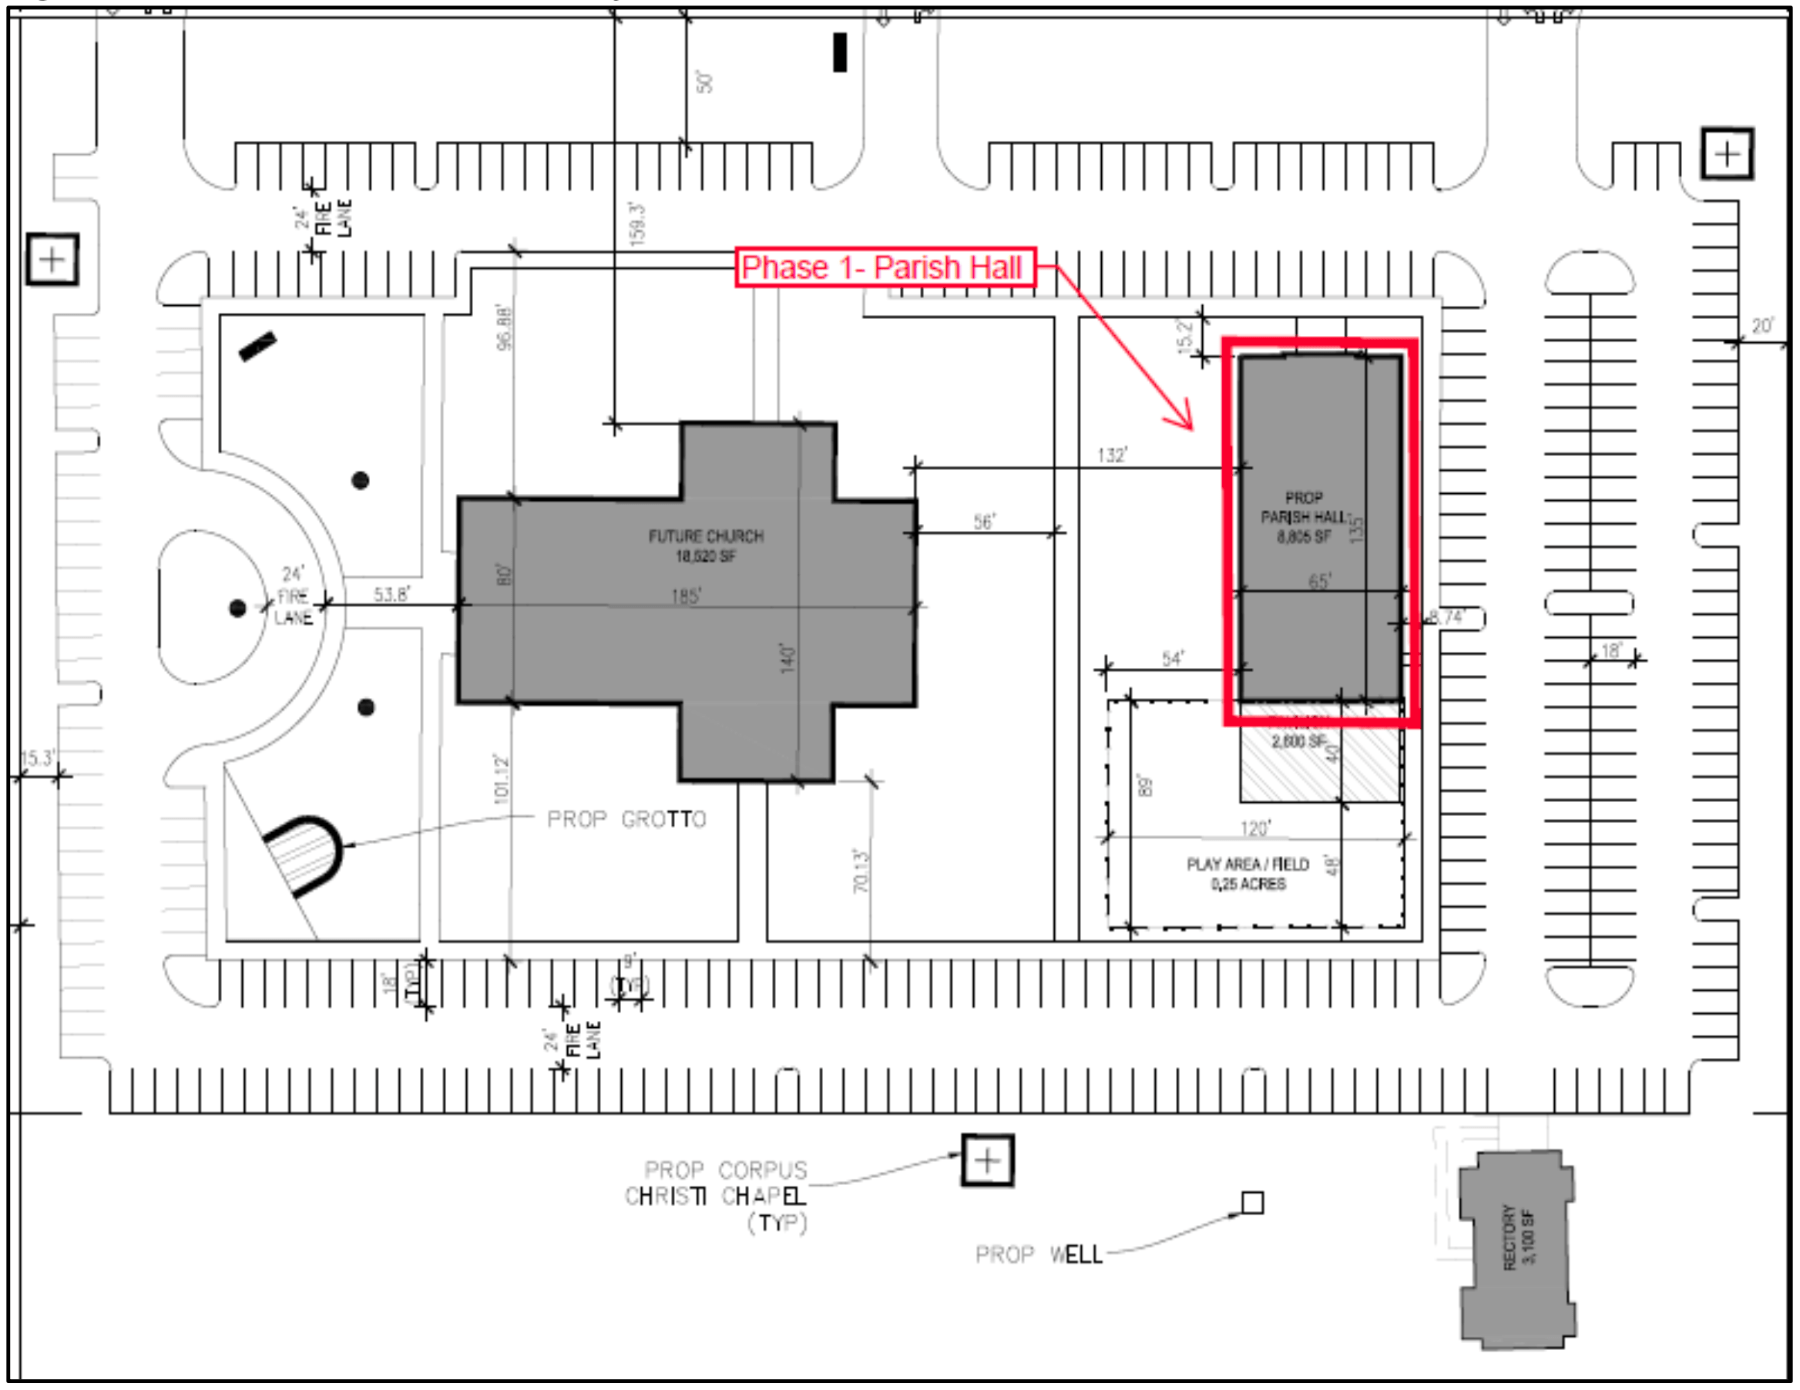
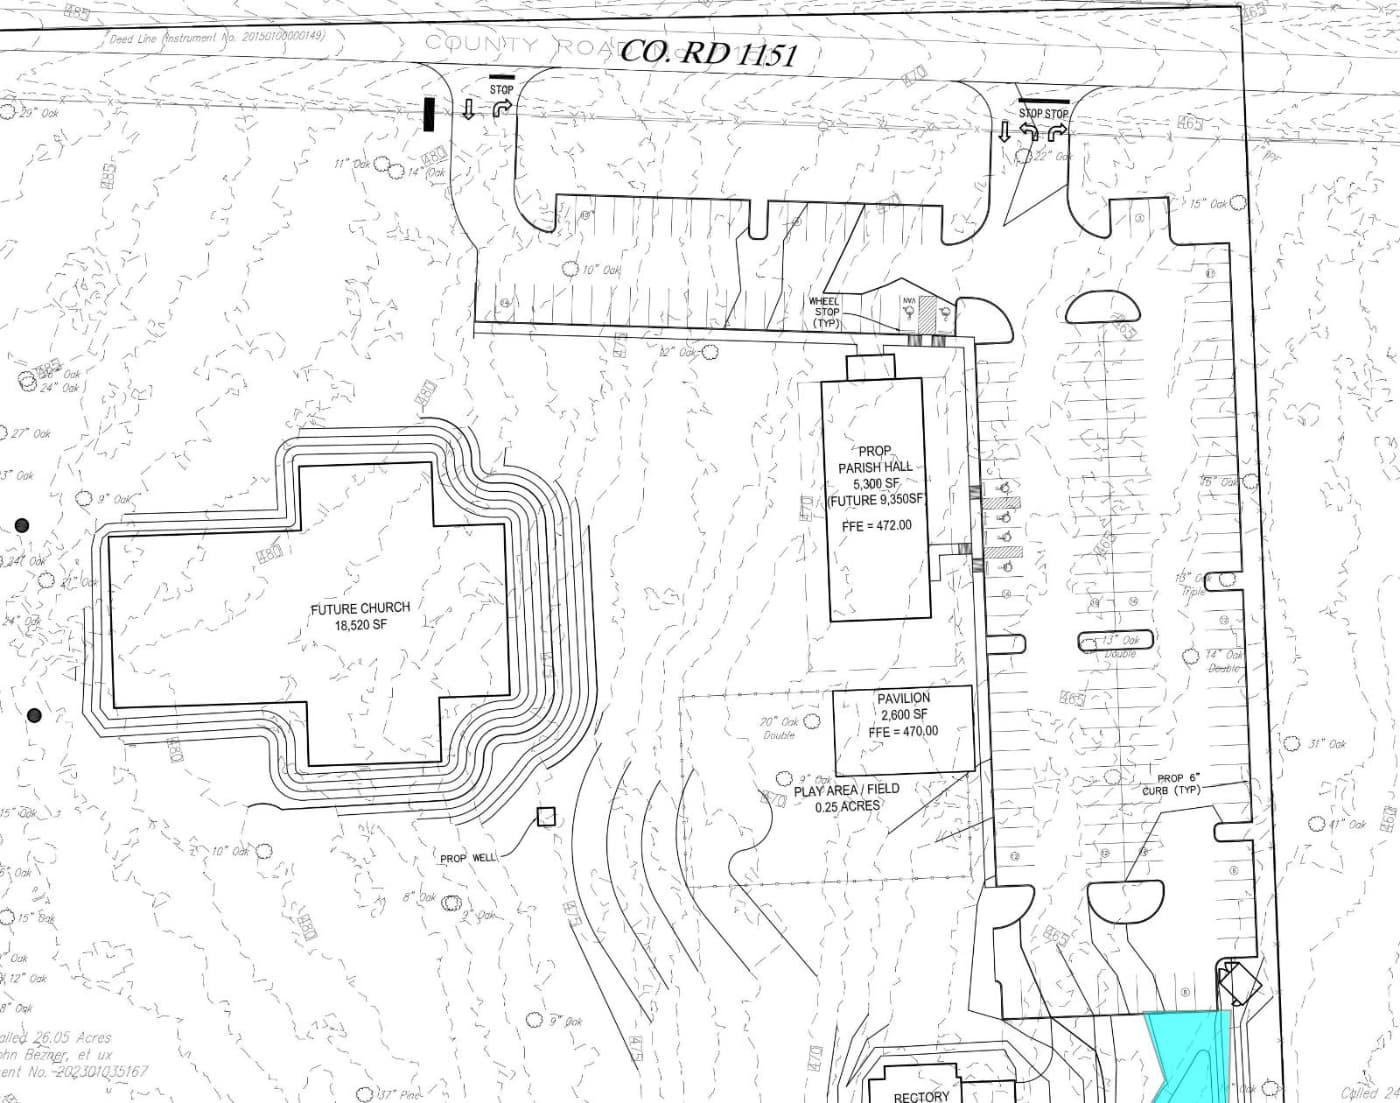
Update images and text for new site

Changed region(s): [[0.0, 0.0, 1.0, 1.0], [0.215, 0.9248, 0.2457, 0.9556], [0.215, 0.8323, 0.2457, 0.8631]]

diff --git a/index.html b/index.html
@@ -442,9 +442,12 @@
             <div class="offset-md-1 mb-5 mb-lg-0 col-md-10 col-lg-6 mt-5 mt-md-0">
               <h2>Future</h2>
               <h3>Within our means, without compromising.</h3>
-              <p>The aim of the building committee has been to design and develop a church that addresses our current
-                needs while remaining affordable within the means of our community without compromising on traditional
-                elements and beautiful design.
+              <p>The aim of the building committee has always been to assist Father Valentine in designing and
+                developing a church building that addresses our current needs, remains affordable within the means of
+                our community, and does not compromise on traditional elements and beautiful design.</p>
+
+              <p>Over the past year, our needs and our urgency have changed. We need more space, and we need it soon. To
+                that end, we are building a temporary church that will later be converted to a parish hall.</p>
             </div>
             <div class="offset-md-1 col-md-3 d-none d-lg-block">
               <div class="reveal picframe" data-reveal="300" style="top:-30px; left:-45px;"><img
@@ -463,8 +466,8 @@
             </div>
             <div class="offset-md-1 mb-5 mb-lg-0 col-md-10 col-lg-6">
               <h3>Land for the project has been secured.</h3>
-              <p>Twelve acres of land located off of highway 110 on the North side of Tyler has been generously donated.
-                It is in a safe rural neighborhood surrounded by the homes of Catholic families.</p>
+              <p>Twelve acres of land on the North side of Tyler has been generously donated. It is in a safe, quiet,
+                and rural neighborhood.</p>
             </div>
           </div>
           <div class="row justify-content-center mb-5 pb-5">
@@ -473,11 +476,14 @@
             </div>
             <div class="col-lg-4 mb-lg-0">
               <h3>Divided into two principle phases.</h3>
-              <p>The project has been divided into two phases to provide smaller benchmarks for
-                fundraising. This will allow for flexibility in the construction of the new campus with the ability to
-                adapt its scope to match funds raised. <strong>The more we raise, the more we can build.</strong></p>
+              <p>The project has been divided into two phases to provide smaller, achievable benchmarks for fundraising.
+                This will allow us to get onto the new property (and out of our current one) sooner.</p>
+              <p>The first phase is a building that will be used as our church temporarily to meet the needs of our
+                community and allow it to grow. The second phase is to build a larger, more inspiring, and more
+                beautiful church while converting the first building into a parish hall.</p>
+
             </div>
-            <div class="d-none d-lg-block col-lg-6" style="top:-45px; position:relative;">
+            <div class="d-none d-lg-block col-lg-6" style="position:relative;">
               <img src="img/future/schematic.jpg" class="img-fluid" alt="" />
             </div>
           </div>
@@ -487,32 +493,42 @@
               <img src="img/future/site-plan-proposed.png" class="img-fluid" alt="" style="margin-bottom: 60px;" />
               <h3><strong>Phase 1: Parish hall and temporary church.</strong></h3>
               <ul>
-                <li>8,800 sq ft </li>
-                <li>The Parish Hall will serve as the temporary church until the full church is built.</li>
-                <li>The temporary church in the parish hall will seat 400 people per mass. By comparison, our
-                  current church seats 100 people.</li>
+                <li>5,300 sq ft </li>
+                <li>This is be used as our church immediately to be later converted to a parish hall once the final
+                  church is built.</li>
+                <li>Seats ~400 people. For comparison using the same calculation, our current church seats ~100.</li>
               </ul>
             </div>
           </div>
 
+
           <div class="row justify-content-center">
             <div class="col-md-8">
-              <img src="img/future/floor-plan-v7.png" style="width:100%; margin-bottom: 60px;" />
-              <p>Estimated total cost the first phase (Parish Hall and temporary Church) is $3 Million. The current
-                priority and most pressing need is
-                to build a new church with more space, so Phase 1 is the primary goal.</p>
-              <p>The Diocese of Tyler and FSSP leadership are supportive of this plan to build our new church. This
-                outlined plan has been approved by the Bishop and the Diocesan building committee.</p>
-              <p>Now that final approval has been granted, fundraising can begin. We need to raise a minimum of 60% of
-                total building costs to break ground, with the remaining 40% loaned to us from the Diocese to be paid
-                back in no more than 5 years. This 40% must be covered with pledges from donors.</p>
+              <img src="img/future/floor-plan-v8.jpg" style="width:100%; margin-bottom: 60px;" />
+
+              <iframe src="https://memberdrive.org/st-joseph-the-worker-parish/capital-campaign/progress?embed=true"
+                width="100%" height="100px" frameborder="0" style="margin:0;"></iframe>
+
+              <p>The current priority and most pressing need is to build a new church with more space, so Phase 1 is the
+                primary goal. The estimated cost for the temporary church building in the first phase is expected to be
+                around $1.8 Million. We have met this goal, but we still need your help! This cost does not include
+                interior furnishings or a rectory for Father Valentine; both are necessary for our community.</p>
+
+              <p>The Diocese of Tyler and FSSP leadership are openly supportive of this plan to build our new church.
+                This outlined plan has been approved by the Diocesan building committee.</p>
+
+              <p>We will need to secure a loan from the Diocese to begin construction. To obtain this loan, we need to
+                have the total cost covered by cash and pledges.</p>
+
               <p>A pledge is a non-binding commitment made in good faith. We encourage everyone to consider making a
                 pledge to the campaign for a 3 year period. An abatement of the Diocesan assessment has been granted, so
-                the entirety of the pledge payments will be used for the building campaign.</p>
-              <p>Each family has different financial obligations to consider and all pledges and contributions will be
-                held in the strictest confidence. For the success of this campaign, we ask that families who are
-                financially capable of pledging $25,000, $50,000, $100,000 or more step forward and become leaders of
-                this campaign.</p>
+                the entirety of the pledge payments and donations to the building fund will be used for the building
+                campaign.</p>
+
+              <p>Each family has different financial obligations; all pledges and contributions will be held in the
+                strictest confidence. For the success of this campaign, we ask that every family consider making a
+                donation or pledge. Every gift brings us one step closer to our new church.</p>
+
             </div>
           </div>
         </div>
